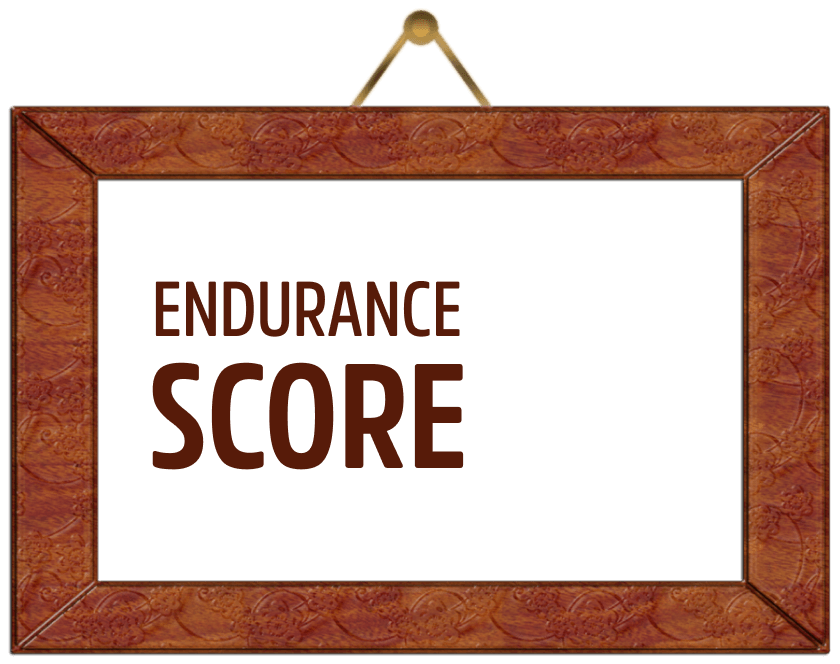
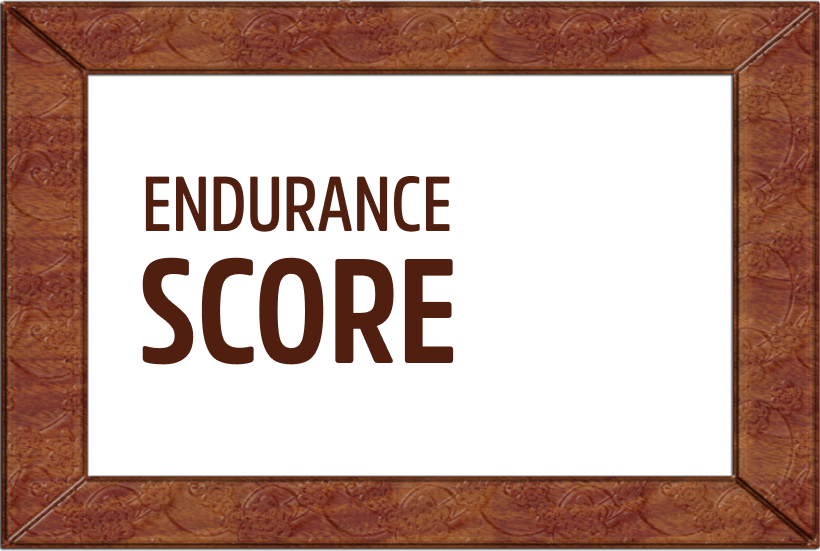
Added end score show feature

diff --git a/style.css b/style.css
@@ -115,13 +115,27 @@ button:focus {
 
 
 .scoreboard{
-	position: absolute;right: 120px;
-	top: 50px;
-	height: 332px;
+	position: absolute;
+	right: 120px;
+	top: 100px;
+	left: auto;
+	bottom: auto;
 	width: 420px;
-	background: url(score.png) no-repeat;
-	background-size: 420px 332px;
+	height: 282px;
+	background: #E4D4CE url(score.png) no-repeat;
+	background-size: 420px 282px;
+    /*transition: all 0.4s ease-out;*/
+    box-shadow: none;
+}
 
+.scoreboard-modal{
+    right: 0;
+    left: 0;
+    margin: auto;
+    top: -100px;
+    bottom: 0px;
+    box-shadow: 0px 0px 0px 1000px rgb(255 255 255 / 80%);
+    z-index: 10;
 }
 
 .scorecard{
@@ -138,24 +152,28 @@ button:focus {
     font-weight: bold;
     padding: 20px 0px;
     color: #571B09;
-    transition: all 0.1s ease-out;
 }
 
-.scoreboard-modal{
-	right: 0;
-    left: 0;
-    margin: auto;
-    top: -100px;
-    bottom: 0px;
-}
-
-.scoreboard-modal:before{
-	display: block;
-	content: '';
+.scoreboard .button{
+	opacity: 0;
+	background: url('button-2.png');
+	background-size: cover;
 	position: absolute;
+	width: 315px;
 	left: 0;
 	right: 0;
-	top: 0;
-	bottom: 0;
-	background: rgba(255,255,255,0.6);
+	bottom: -100px;
+	/*transition: all 0.6s ease-out;*/
+}
+
+.scoreboard .close{
+	background: url(close.png);
+	background-size: cover;
+	width: 80px;
+	right: 0px;
+	left: auto;
+}
+
+.scoreboard-modal .button{
+	opacity: 1;
 }

diff --git a/index.html b/index.html
@@ -17,6 +17,8 @@
 
   <div class="scoreboard">
   	<div class="scorecard score">0</div>
+  	<button class="button" onClick="startGame()"></button>
+  	<button class="button close" onClick="closeModal()"></button>
   </div>
 
   <div class="game">
@@ -93,6 +95,7 @@ moles.forEach(mole => mole.addEventListener("click", bunk));
 
 function startGame() {
 	document.body.style.cursor = "url('hammer-hit.png'), auto";
+	document.querySelector('.scoreboard').classList.remove("scoreboard-modal");	
 	scoreBoard.textContent = 0;
 	score = 0;
 	timeUp = false;
@@ -103,11 +106,15 @@ function startGame() {
 	setTimeout(() => {
 		timeUp = true;
 			setTimeout(() => {
-			document.querySelector('.button').style.backgroundImage="url(button-2.png)";
+			document.querySelector('.scoreboard').classList.add("scoreboard-modal");
 		}, 1000);
 	}, 10000);
-
 }
+
+function closeModal(){
+	document.querySelector('.scoreboard').classList.remove("scoreboard-modal");
+}
+
 </script>
 </body>
 </html>
